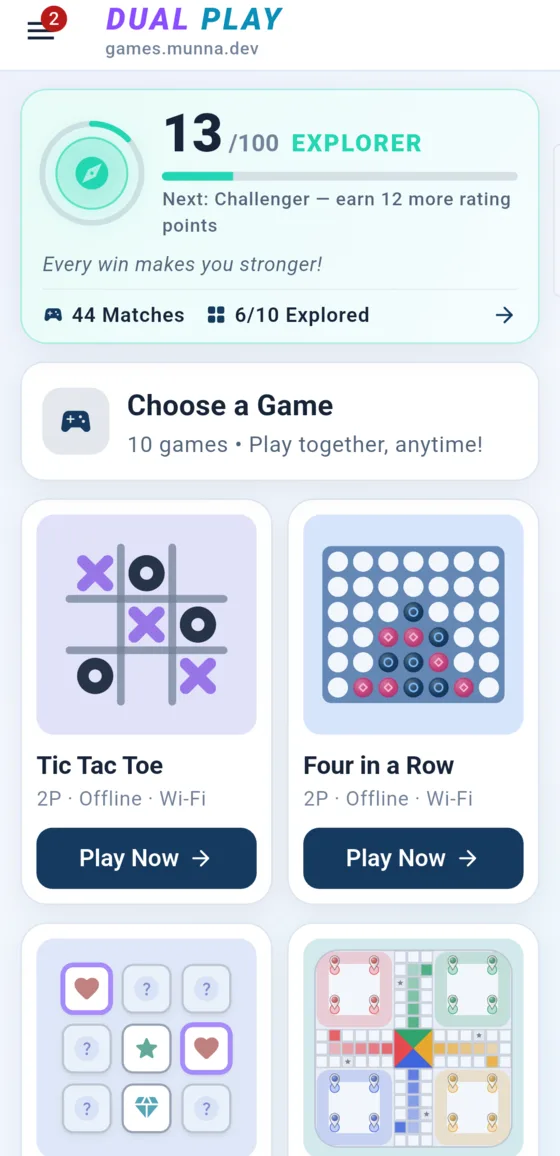
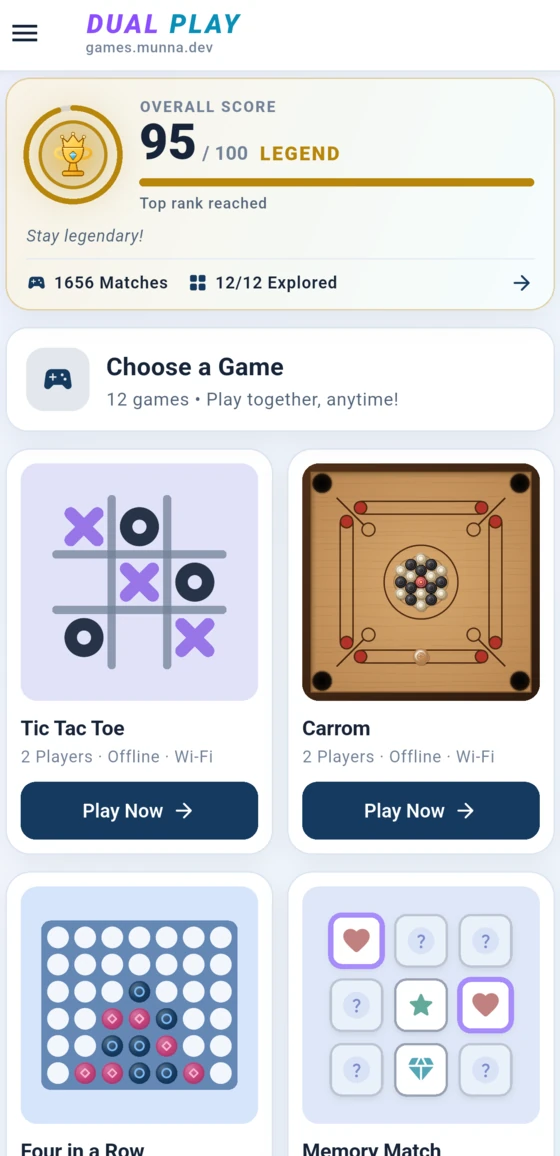
Update asset versioning and improve caching strategy
- Added versioning to favicon and apple-touch-icon links across multiple HTML files to ensure updated assets are fetched.
- Enhanced the asset stamping script to include images in addition to CSS and JS, ensuring all assets are versioned correctly.
- Updated various image references in the Dual Play app to include versioning for better cache management.
- Modified the service worker version in flutter_bootstrap.js to reflect the latest changes.

diff --git a/dual-play/index.html b/dual-play/index.html
@@ -26,15 +26,15 @@
 <meta name="twitter:description" content="Offline games with smart bots, same-device play, local Wi-Fi multiplayer and achievement leagues. No account.">
 <meta name="twitter:image" content="https://games.munna.dev/dual-play/assets/og-cover.png">
 
-<link rel="icon" href="/assets/favicon.svg" type="image/svg+xml">
-<link rel="apple-touch-icon" href="/assets/apple-touch-icon.png">
+<link rel="icon" href="/assets/favicon.svg?v=5d6193cf63" type="image/svg+xml">
+<link rel="apple-touch-icon" href="/assets/apple-touch-icon.png?v=ee16fc466b">
 <link rel="manifest" href="/dual-play/site.webmanifest">
 <link rel="preconnect" href="https://fonts.googleapis.com">
 <link rel="preconnect" href="https://fonts.gstatic.com" crossorigin>
 <link rel="stylesheet" href="https://fonts.googleapis.com/css2?family=Space+Grotesk:wght@500;600;700&display=swap">
 <link rel="stylesheet" href="/assets/site.css?v=4e4699472b">
-<link rel="stylesheet" href="/dual-play/assets/landing.css?v=2e84b9c476">
-<link rel="preload" as="image" href="/dual-play/assets/app/home.webp" type="image/webp">
+<link rel="stylesheet" href="/dual-play/assets/landing.css?v=ff501e1cfe">
+<link rel="preload" as="image" href="/dual-play/assets/app/home.webp?v=2f58cb6d5a" imagesrcset="/dual-play/assets/app/home.webp?v=2f58cb6d5a 560w, /dual-play/assets/app/home-840.webp?v=1012a0fd57 840w" imagesizes="(max-width: 940px) min(280px, 74vw), 270px" type="image/webp">
 <script>document.documentElement.classList.add('js')</script>
 <script defer src="/assets/site.js?v=92ef3d40b8"></script>
 <script defer src="/dual-play/assets/landing.js?v=4e567e4c0e"></script>
@@ -286,10 +286,10 @@
       <div class="dp-hero-visual">
         <div class="dp-phone-glow" aria-hidden="true"></div>
         <figure class="dp-phone">
-          <img src="/dual-play/assets/app/home.webp" width="560" height="1156" alt="The Dual Play home screen: a rating card showing the Explorer rank above a grid of game cards with artwork for Tic Tac Toe, Four in a Row, Memory Match and Ludo" fetchpriority="high" decoding="async">
+          <img src="/dual-play/assets/app/home.webp?v=2f58cb6d5a" srcset="/dual-play/assets/app/home.webp?v=2f58cb6d5a 560w, /dual-play/assets/app/home-840.webp?v=1012a0fd57 840w" sizes="(max-width: 940px) min(280px, 74vw), 270px" width="560" height="1156" alt="The Dual Play home screen: an Overall Score of 95 out of 100 in the Legend league, 1656 matches and 12 of 12 games explored, then Choose a Game with 12 games, starting with Tic Tac Toe and Carrom, followed by Four in a Row and Memory Match" fetchpriority="high" decoding="async">
         </figure>
-        <div class="dp-float dp-float-ttt" aria-hidden="true"><img class="" src="/dual-play/assets/games/tic-tac-toe.webp" width="96" height="96" alt="Tic Tac Toe artwork from the Dual Play app" decoding="async"><span>Tic Tac Toe</span></div>
-        <div class="dp-float dp-float-ludo" aria-hidden="true"><img class="" src="/dual-play/assets/games/ludo.webp" width="96" height="96" alt="Ludo artwork from the Dual Play app" decoding="async"><span>Ludo · 2–4</span></div>
+        <div class="dp-float dp-float-ttt" aria-hidden="true"><img class="" src="/dual-play/assets/games/tic-tac-toe.webp?v=90ac725b89" width="96" height="96" alt="Tic Tac Toe artwork from the Dual Play app" decoding="async"><span>Tic Tac Toe</span></div>
+        <div class="dp-float dp-float-ludo" aria-hidden="true"><img class="" src="/dual-play/assets/games/ludo.webp?v=7fbd83d5c0" width="96" height="96" alt="Ludo artwork from the Dual Play app" decoding="async"><span>Ludo · 2–4</span></div>
         <div class="dp-float dp-float-rank" aria-hidden="true">
           <svg viewBox="0 0 24 24" fill="none" stroke="currentColor" stroke-width="2" stroke-linecap="round" stroke-linejoin="round"><path d="M8 21h8M12 17v4M7 4h10v5a5 5 0 0 1-10 0z"/><path d="M17 5h3v2a3 3 0 0 1-3 3M7 5H4v2a3 3 0 0 0 3 3"/></svg>
           <span><b>Legend</b><small>League 8 of 8</small></span>
@@ -311,25 +311,26 @@
         <p class="lede">From quick-thinking puzzles to timeless board-game battles, Dual Play brings your favorite challenges together.</p>
       </div>
       <ul class="dp-featured-grid">
-        <li class="reveal"><a class="dp-feat-card" href="#game-tic-tac-toe" style="--ga:True">
-          <img class="dp-art" src="/dual-play/assets/games/tic-tac-toe.webp" width="420" height="420" alt="Tic Tac Toe artwork from the Dual Play app" loading="lazy" decoding="async">
+        <li class="reveal"><a class="dp-feat-card" href="#game-tic-tac-toe" style="--ga:#9875e8">
+          <img class="dp-art" src="/dual-play/assets/games/tic-tac-toe.webp?v=90ac725b89" width="420" height="420" alt="Tic Tac Toe artwork from the Dual Play app" loading="lazy" decoding="async">
           <span class="dp-feat-name">Tic Tac Toe</span>
           <span class="dp-feat-line">9 levels · Infinity mode</span>
         </a></li>
-        <li class="reveal"><a class="dp-feat-card" href="#game-ludo" style="--ga:True">
-          <img class="dp-art" src="/dual-play/assets/games/ludo.webp" width="420" height="420" alt="Ludo artwork from the Dual Play app" loading="lazy" decoding="async">
+        <li class="reveal"><a class="dp-feat-card" href="#game-carrom" style="--ga:#b9814f">
+          <span class="dp-feat-new">New</span>
+          <img class="dp-art" src="/dual-play/assets/games/carrom.webp?v=a556638d4e" width="420" height="420" alt="Carrom artwork from the Dual Play app: a wooden carrom board with corner pockets, the red Queen and black and white pieces" loading="lazy" decoding="async">
+          <span class="dp-feat-name">Carrom</span>
+          <span class="dp-feat-line">Classic &amp; Freestyle · real physics</span>
+        </a></li>
+        <li class="reveal"><a class="dp-feat-card" href="#game-ludo" style="--ga:#34b27a">
+          <img class="dp-art" src="/dual-play/assets/games/ludo.webp?v=7fbd83d5c0" width="420" height="420" alt="Ludo artwork from the Dual Play app" loading="lazy" decoding="async">
           <span class="dp-feat-name">Ludo</span>
           <span class="dp-feat-line">2–4 players · Team Match</span>
         </a></li>
-        <li class="reveal"><a class="dp-feat-card" href="#game-memory-match" style="--ga:True">
-          <img class="dp-art" src="/dual-play/assets/games/memory-match.webp" width="420" height="420" alt="Memory Match artwork from the Dual Play app" loading="lazy" decoding="async">
+        <li class="reveal"><a class="dp-feat-card" href="#game-memory-match" style="--ga:#e7b33e">
+          <img class="dp-art" src="/dual-play/assets/games/memory-match.webp?v=5bdb8fb2ab" width="420" height="420" alt="Memory Match artwork from the Dual Play app" loading="lazy" decoding="async">
           <span class="dp-feat-name">Memory Match</span>
           <span class="dp-feat-line">20 levels · memory duels</span>
-        </a></li>
-        <li class="reveal"><a class="dp-feat-card" href="#game-four-in-a-row" style="--ga:True">
-          <img class="dp-art" src="/dual-play/assets/games/four-in-a-row.webp" width="420" height="420" alt="Four in a Row artwork from the Dual Play app" loading="lazy" decoding="async">
-          <span class="dp-feat-name">Four in a Row</span>
-          <span class="dp-feat-line">5 board sizes · smart bots</span>
         </a></li>
       </ul>
     </div>
@@ -358,49 +359,49 @@
         <ol class="dp-track">
           <li class="dp-slide" data-index="0" data-key="rookie">
             <button type="button" class="dp-rank-card" data-open-rank="0" aria-label="Rookie, rank 1 of 8. Sample card, rating 0 out of 100. Open larger preview.">
-              <img src="/dual-play/assets/ranks/rookie-480.webp" width="480" height="727" alt="Sample Dual Play achievement card for the Rookie rank, showing a rating of 0 out of 100, 0 matches, 0 wins and 0 of 10 games explored" decoding="async">
+              <img src="/dual-play/assets/ranks/rookie-480.webp?v=f17c6acc0e" width="480" height="727" alt="Sample Dual Play achievement card for the Rookie rank, showing a rating of 0 out of 100, 0 matches, 0 wins and 0 of 10 games explored" decoding="async">
             </button>
             <p class="dp-rank-label"><span class="dp-rank-no">1</span> Rookie</p>
           </li>
           <li class="dp-slide" data-index="1" data-key="explorer">
             <button type="button" class="dp-rank-card" data-open-rank="1" aria-label="Explorer, rank 2 of 8. Sample card, rating 13 out of 100. Open larger preview.">
-              <img src="/dual-play/assets/ranks/explorer-480.webp" width="480" height="727" alt="Sample Dual Play achievement card for the Explorer rank, showing a rating of 13 out of 100, 12 matches, 5 wins and 6 of 10 games explored" decoding="async">
+              <img src="/dual-play/assets/ranks/explorer-480.webp?v=2889338e52" width="480" height="727" alt="Sample Dual Play achievement card for the Explorer rank, showing a rating of 13 out of 100, 12 matches, 5 wins and 6 of 10 games explored" decoding="async">
             </button>
             <p class="dp-rank-label"><span class="dp-rank-no">2</span> Explorer</p>
           </li>
           <li class="dp-slide" data-index="2" data-key="challenger">
             <button type="button" class="dp-rank-card" data-open-rank="2" aria-label="Challenger, rank 3 of 8. Sample card, rating 25 out of 100. Open larger preview.">
-              <img src="/dual-play/assets/ranks/challenger-480.webp" width="480" height="727" alt="Sample Dual Play achievement card for the Challenger rank, showing a rating of 25 out of 100, 30 matches, 14 wins and 7 of 10 games explored" decoding="async">
+              <img src="/dual-play/assets/ranks/challenger-480.webp?v=44112bbc44" width="480" height="727" alt="Sample Dual Play achievement card for the Challenger rank, showing a rating of 25 out of 100, 30 matches, 14 wins and 7 of 10 games explored" decoding="async">
             </button>
             <p class="dp-rank-label"><span class="dp-rank-no">3</span> Challenger</p>
           </li>
           <li class="dp-slide" data-index="3" data-key="skilled-player">
             <button type="button" class="dp-rank-card" data-open-rank="3" aria-label="Skilled Player, rank 4 of 8. Sample card, rating 40 out of 100. Open larger preview.">
-              <img src="/dual-play/assets/ranks/skilled-player-480.webp" width="480" height="727" alt="Sample Dual Play achievement card for the Skilled Player rank, showing a rating of 40 out of 100, 65 matches, 35 wins and 8 of 10 games explored" loading="lazy" decoding="async">
+              <img src="/dual-play/assets/ranks/skilled-player-480.webp?v=54155f06ac" width="480" height="727" alt="Sample Dual Play achievement card for the Skilled Player rank, showing a rating of 40 out of 100, 65 matches, 35 wins and 8 of 10 games explored" loading="lazy" decoding="async">
             </button>
             <p class="dp-rank-label"><span class="dp-rank-no">4</span> Skilled Player</p>
           </li>
           <li class="dp-slide" data-index="4" data-key="expert">
             <button type="button" class="dp-rank-card" data-open-rank="4" aria-label="Expert, rank 5 of 8. Sample card, rating 55 out of 100. Open larger preview.">
-              <img src="/dual-play/assets/ranks/expert-480.webp" width="480" height="727" alt="Sample Dual Play achievement card for the Expert rank, showing a rating of 55 out of 100, 110 matches, 68 wins and 10 of 10 games explored" loading="lazy" decoding="async">
+              <img src="/dual-play/assets/ranks/expert-480.webp?v=bd09b292c2" width="480" height="727" alt="Sample Dual Play achievement card for the Expert rank, showing a rating of 55 out of 100, 110 matches, 68 wins and 10 of 10 games explored" loading="lazy" decoding="async">
             </button>
             <p class="dp-rank-label"><span class="dp-rank-no">5</span> Expert</p>
           </li>
           <li class="dp-slide" data-index="5" data-key="master">
             <button type="button" class="dp-rank-card" data-open-rank="5" aria-label="Master, rank 6 of 8. Sample card, rating 70 out of 100. Open larger preview.">
-              <img src="/dual-play/assets/ranks/master-480.webp" width="480" height="727" alt="Sample Dual Play achievement card for the Master rank, showing a rating of 70 out of 100, 180 matches, 125 wins and 10 of 10 games explored" loading="lazy" decoding="async">
+              <img src="/dual-play/assets/ranks/master-480.webp?v=597a07226b" width="480" height="727" alt="Sample Dual Play achievement card for the Master rank, showing a rating of 70 out of 100, 180 matches, 125 wins and 10 of 10 games explored" loading="lazy" decoding="async">
             </button>
             <p class="dp-rank-label"><span class="dp-rank-no">6</span> Master</p>
           </li>
           <li class="dp-slide" data-index="6" data-key="champion">
             <button type="button" class="dp-rank-card" data-open-rank="6" aria-label="Champion, rank 7 of 8. Sample card, rating 85 out of 100. Open larger preview.">
-              <img src="/dual-play/assets/ranks/champion-480.webp" width="480" height="727" alt="Sample Dual Play achievement card for the Champion rank, showing a rating of 85 out of 100, 300 matches, 225 wins and 10 of 10 games explored" loading="lazy" decoding="async">
+              <img src="/dual-play/assets/ranks/champion-480.webp?v=95653f3b66" width="480" height="727" alt="Sample Dual Play achievement card for the Champion rank, showing a rating of 85 out of 100, 300 matches, 225 wins and 10 of 10 games explored" loading="lazy" decoding="async">
             </button>
             <p class="dp-rank-label"><span class="dp-rank-no">7</span> Champion</p>
           </li>
           <li class="dp-slide" data-index="7" data-key="legend">
             <button type="button" class="dp-rank-card" data-open-rank="7" aria-label="Legend, rank 8 of 8. Sample card, rating 95 out of 100. Open larger preview.">
-              <img src="/dual-play/assets/ranks/legend-480.webp" width="480" height="727" alt="Sample Dual Play achievement card for the Legend rank, showing a rating of 95 out of 100, 500 matches, 400 wins and 10 of 10 games explored" loading="lazy" decoding="async">
+              <img src="/dual-play/assets/ranks/legend-480.webp?v=5f400380b3" width="480" height="727" alt="Sample Dual Play achievement card for the Legend rank, showing a rating of 95 out of 100, 500 matches, 400 wins and 10 of 10 games explored" loading="lazy" decoding="async">
             </button>
             <p class="dp-rank-label"><span class="dp-rank-no">8</span> Legend</p>
           </li>
@@ -445,7 +446,7 @@
       </div>
       <div class="dp-games-grid">
         <article class="dp-game reveal" id="game-tic-tac-toe" style="--ga:#9875e8">
-          <img class="dp-game-art" src="/dual-play/assets/games/tic-tac-toe.webp" width="420" height="420" alt="Tic Tac Toe artwork from the Dual Play app" loading="lazy" decoding="async">
+          <img class="dp-game-art" src="/dual-play/assets/games/tic-tac-toe.webp?v=90ac725b89" width="420" height="420" alt="Tic Tac Toe artwork from the Dual Play app" loading="lazy" decoding="async">
           <div class="dp-game-body">
             <h3>Tic Tac Toe</h3>
             <p class="dp-game-line">Beyond the classic 3×3: nine levels climb to an 11×11 board, each with its own named challenger.</p>
@@ -458,7 +459,7 @@
           </div>
         </article>
         <article class="dp-game reveal" id="game-carrom" style="--ga:#b9814f">
-          <img class="dp-game-art" src="/dual-play/assets/games/carrom.webp" width="420" height="420" alt="Carrom artwork from the Dual Play app: a wooden carrom board with corner pockets, the red Queen and black and white pieces" loading="lazy" decoding="async">
+          <img class="dp-game-art" src="/dual-play/assets/games/carrom.webp?v=a556638d4e" width="420" height="420" alt="Carrom artwork from the Dual Play app: a wooden carrom board with corner pockets, the red Queen and black and white pieces" loading="lazy" decoding="async">
           <div class="dp-game-body">
             <h3>Carrom</h3>
             <p class="dp-game-line">Flick the striker across a wooden board and sink your pieces — two ways to play in one game.</p>
@@ -471,7 +472,7 @@
           </div>
         </article>
         <article class="dp-game reveal" id="game-four-in-a-row" style="--ga:#438cff">
-          <img class="dp-game-art" src="/dual-play/assets/games/four-in-a-row.webp" width="420" height="420" alt="Four in a Row artwork from the Dual Play app" loading="lazy" decoding="async">
+          <img class="dp-game-art" src="/dual-play/assets/games/four-in-a-row.webp?v=cae88f99d2" width="420" height="420" alt="Four in a Row artwork from the Dual Play app" loading="lazy" decoding="async">
           <div class="dp-game-body">
             <h3>Four in a Row</h3>
             <p class="dp-game-line">Drop your discs, plan ahead and connect four before your opponent does.</p>
@@ -484,7 +485,7 @@
           </div>
         </article>
         <article class="dp-game reveal" id="game-memory-match" style="--ga:#e7b33e">
-          <img class="dp-game-art" src="/dual-play/assets/games/memory-match.webp" width="420" height="420" alt="Memory Match artwork from the Dual Play app" loading="lazy" decoding="async">
+          <img class="dp-game-art" src="/dual-play/assets/games/memory-match.webp?v=5bdb8fb2ab" width="420" height="420" alt="Memory Match artwork from the Dual Play app" loading="lazy" decoding="async">
           <div class="dp-game-body">
             <h3>Memory Match</h3>
             <p class="dp-game-line">Flip cards, remember what was revealed and collect matching pairs before your rival.</p>
@@ -497,7 +498,7 @@
           </div>
         </article>
         <article class="dp-game reveal" id="game-ludo" style="--ga:#34b27a">
-          <img class="dp-game-art" src="/dual-play/assets/games/ludo.webp" width="420" height="420" alt="Ludo artwork from the Dual Play app" loading="lazy" decoding="async">
+          <img class="dp-game-art" src="/dual-play/assets/games/ludo.webp?v=7fbd83d5c0" width="420" height="420" alt="Ludo artwork from the Dual Play app" loading="lazy" decoding="async">
           <div class="dp-game-body">
             <h3>Ludo</h3>
             <p class="dp-game-line">Roll the dice and race your tokens home — alone, with friends or in a 2v2 Team Match.</p>
@@ -510,7 +511,7 @@
           </div>
         </article>
         <article class="dp-game reveal" id="game-dots-and-boxes" style="--ga:#21b5a5">
-          <img class="dp-game-art" src="/dual-play/assets/games/dots-and-boxes.webp" width="420" height="420" alt="Dots and Boxes artwork from the Dual Play app" loading="lazy" decoding="async">
+          <img class="dp-game-art" src="/dual-play/assets/games/dots-and-boxes.webp?v=4fe0100b12" width="420" height="420" alt="Dots and Boxes artwork from the Dual Play app" loading="lazy" decoding="async">
           <div class="dp-game-body">
             <h3>Dots and Boxes</h3>
             <p class="dp-game-line">Connect the dots, claim boxes and outsmart your opponent one clever line at a time.</p>
@@ -523,7 +524,7 @@
           </div>
         </article>
         <article class="dp-game reveal" id="game-color-connect" style="--ga:#e5604f">
-          <img class="dp-game-art" src="/dual-play/assets/games/color-connect.webp" width="420" height="420" alt="Color Connect artwork from the Dual Play app" loading="lazy" decoding="async">
+          <img class="dp-game-art" src="/dual-play/assets/games/color-connect.webp?v=bf2de59a1c" width="420" height="420" alt="Color Connect artwork from the Dual Play app" loading="lazy" decoding="async">
           <div class="dp-game-body">
             <h3>Color Connect</h3>
             <p class="dp-game-line">Join matching colours with clever paths — solve a 50-level campaign or set a puzzle for a friend.</p>
@@ -536,7 +537,7 @@
           </div>
         </article>
         <article class="dp-game reveal" id="game-sliding-puzzle" style="--ga:#8db33a">
-          <img class="dp-game-art" src="/dual-play/assets/games/sliding-puzzle.webp" width="420" height="420" alt="Sliding Puzzle artwork from the Dual Play app" loading="lazy" decoding="async">
+          <img class="dp-game-art" src="/dual-play/assets/games/sliding-puzzle.webp?v=31146f37fa" width="420" height="420" alt="Sliding Puzzle artwork from the Dual Play app" loading="lazy" decoding="async">
           <div class="dp-game-body">
             <h3>Sliding Puzzle</h3>
             <p class="dp-game-line">The classic 15 puzzle with picture tiles — slide every piece home, alone or against a friend.</p>
@@ -549,7 +550,7 @@
           </div>
         </article>
         <article class="dp-game reveal" id="game-wall-block" style="--ga:#df5a9b">
-          <img class="dp-game-art" src="/dual-play/assets/games/wall-block.webp" width="420" height="420" alt="Wall Block artwork from the Dual Play app" loading="lazy" decoding="async">
+          <img class="dp-game-art" src="/dual-play/assets/games/wall-block.webp?v=6af65a0806" width="420" height="420" alt="Wall Block artwork from the Dual Play app" loading="lazy" decoding="async">
           <div class="dp-game-body">
             <h3>Wall Block</h3>
             <p class="dp-game-line">Race to the far edge while placing walls to slow your rival down.</p>
@@ -562,7 +563,7 @@
           </div>
         </article>
         <article class="dp-game reveal" id="game-shape-crack" style="--ga:#7d8dff">
-          <img class="dp-game-art" src="/dual-play/assets/games/shape-crack.webp" width="420" height="420" alt="Shape Crack artwork from the Dual Play app" loading="lazy" decoding="async">
+          <img class="dp-game-art" src="/dual-play/assets/games/shape-crack.webp?v=4b46cc1000" width="420" height="420" alt="Shape Crack artwork from the Dual Play app" loading="lazy" decoding="async">
           <div class="dp-game-body">
             <h3>Shape Crack</h3>
             <p class="dp-game-line">Break the hidden shape code using logic, clues and deduction.</p>
@@ -575,7 +576,7 @@
           </div>
         </article>
         <article class="dp-game reveal" id="game-sholo-guti" style="--ga:#e9a15b">
-          <img class="dp-game-art" src="/dual-play/assets/games/sholo-guti.webp" width="420" height="420" alt="Sholo Guti artwork from the Dual Play app" loading="lazy" decoding="async">
+          <img class="dp-game-art" src="/dual-play/assets/games/sholo-guti.webp?v=dd122682a6" width="420" height="420" alt="Sholo Guti artwork from the Dual Play app" loading="lazy" decoding="async">
           <div class="dp-game-body">
             <h3>Sholo Guti</h3>
             <p class="dp-game-line">A traditional strategy game: two armies of 16 on a 42-point board where every jump can turn the game.</p>
@@ -588,7 +589,7 @@
           </div>
         </article>
         <article class="dp-game reveal" id="game-bagh-bandi" style="--ga:#e8794f">
-          <img class="dp-game-art" src="/dual-play/assets/games/bagh-bandi.webp" width="420" height="420" alt="Bagh-Bandi artwork from the Dual Play app" loading="lazy" decoding="async">
+          <img class="dp-game-art" src="/dual-play/assets/games/bagh-bandi.webp?v=bd63d665f7" width="420" height="420" alt="Bagh-Bandi artwork from the Dual Play app" loading="lazy" decoding="async">
           <div class="dp-game-body">
             <h3>Bagh-Bandi</h3>
             <p class="dp-game-line">Take the Tiger or the Soldiers in a traditional hunt on a 13-point hourglass board.</p>

diff --git a/dual-play/assets/landing.css b/dual-play/assets/landing.css
@@ -133,11 +133,17 @@ body.dp .wordmark span { background-image: linear-gradient(90deg, #7fd6ee, #9564
 }
 .dp-featured-grid > li { min-width: 0; }
 .dp-feat-card {
-  display: block; height: 100%; padding: .7rem .7rem 1rem; text-decoration: none; color: var(--text);
+  position: relative; display: block; height: 100%; padding: .7rem .7rem 1rem; text-decoration: none; color: var(--text);
   border-radius: var(--r-lg); background: var(--surface); border: 1px solid var(--border);
   transition: transform .2s ease, border-color .2s ease, box-shadow .2s ease;
 }
 .dp-feat-card:hover { transform: translateY(-4px); border-color: color-mix(in srgb, var(--ga) 60%, var(--border)); box-shadow: 0 22px 44px -26px var(--ga); color: var(--text); }
+.dp-feat-new {
+  position: absolute; top: 1.15rem; right: 1.15rem; z-index: 1;
+  padding: .22rem .6rem; border-radius: 999px;
+  font-family: var(--font-display); font-weight: 700; font-size: .7rem; letter-spacing: .08em; text-transform: uppercase;
+  color: #fff; background: color-mix(in srgb, var(--ga) 82%, #000); box-shadow: 0 6px 16px -8px var(--ga);
+}
 .dp-art { width: 100%; height: auto; aspect-ratio: 1; border-radius: 18px; margin-bottom: .8rem; }
 .dp-feat-name { display: block; font-family: var(--font-display); font-weight: 700; font-size: 1.08rem; padding-inline: .3rem; }
 .dp-feat-line { display: block; font-size: .88rem; color: var(--text-muted); padding-inline: .3rem; margin-top: .15rem; }

diff --git a/bricks-crusher/index.html b/bricks-crusher/index.html
@@ -26,8 +26,8 @@
 <meta name="twitter:description" content="Paddle, ball, a wall of bricks. Split &amp; Burst power-ups, Diamonds, a 100-level campaign, a skins store, Daily Rewards and a Lucky Wheel. Free to play, out now on Google Play.">
 <meta name="twitter:image" content="https://games.munna.dev/bricks-crusher/assets/og-cover.png">
 
-<link rel="icon" href="/assets/favicon.svg" type="image/svg+xml">
-<link rel="apple-touch-icon" href="/assets/apple-touch-icon.png">
+<link rel="icon" href="/assets/favicon.svg?v=5d6193cf63" type="image/svg+xml">
+<link rel="apple-touch-icon" href="/assets/apple-touch-icon.png?v=ee16fc466b">
 <link rel="manifest" href="/bricks-crusher/site.webmanifest">
 <link rel="preconnect" href="https://fonts.googleapis.com">
 <link rel="preconnect" href="https://fonts.gstatic.com" crossorigin>

diff --git a/bricks-crusher/privacy/index.html b/bricks-crusher/privacy/index.html
@@ -26,8 +26,8 @@
 <meta name="twitter:description" content="No account required. Your progress stays on your device. Plain-language details on rewarded ads, optional push notifications and the configuration the app uses.">
 <meta name="twitter:image" content="https://games.munna.dev/bricks-crusher/assets/og-cover.png">
 
-<link rel="icon" href="/assets/favicon.svg" type="image/svg+xml">
-<link rel="apple-touch-icon" href="/assets/apple-touch-icon.png">
+<link rel="icon" href="/assets/favicon.svg?v=5d6193cf63" type="image/svg+xml">
+<link rel="apple-touch-icon" href="/assets/apple-touch-icon.png?v=ee16fc466b">
 <link rel="manifest" href="/bricks-crusher/site.webmanifest">
 <link rel="preconnect" href="https://fonts.googleapis.com">
 <link rel="preconnect" href="https://fonts.gstatic.com" crossorigin>

diff --git a/bricks-crusher/terms/index.html b/bricks-crusher/terms/index.html
@@ -26,8 +26,8 @@
 <meta name="twitter:description" content="The terms for using Bricks Crusher: licence, virtual items and rewards, optional rewarded ads.">
 <meta name="twitter:image" content="https://games.munna.dev/bricks-crusher/assets/og-cover.png">
 
-<link rel="icon" href="/assets/favicon.svg" type="image/svg+xml">
-<link rel="apple-touch-icon" href="/assets/apple-touch-icon.png">
+<link rel="icon" href="/assets/favicon.svg?v=5d6193cf63" type="image/svg+xml">
+<link rel="apple-touch-icon" href="/assets/apple-touch-icon.png?v=ee16fc466b">
 <link rel="manifest" href="/bricks-crusher/site.webmanifest">
 <link rel="preconnect" href="https://fonts.googleapis.com">
 <link rel="preconnect" href="https://fonts.gstatic.com" crossorigin>

diff --git a/dual-play/about/index.html b/dual-play/about/index.html
@@ -26,8 +26,8 @@
 <meta name="twitter:description" content="Twelve classic and strategy games in one offline-first Android app, built by Md. Risul Islam Munna.">
 <meta name="twitter:image" content="https://games.munna.dev/dual-play/assets/og-cover.png">
 
-<link rel="icon" href="/assets/favicon.svg" type="image/svg+xml">
-<link rel="apple-touch-icon" href="/assets/apple-touch-icon.png">
+<link rel="icon" href="/assets/favicon.svg?v=5d6193cf63" type="image/svg+xml">
+<link rel="apple-touch-icon" href="/assets/apple-touch-icon.png?v=ee16fc466b">
 <link rel="manifest" href="/dual-play/site.webmanifest">
 <link rel="preconnect" href="https://fonts.googleapis.com">
 <link rel="preconnect" href="https://fonts.gstatic.com" crossorigin>

diff --git a/bricks-crusher/contact/index.html b/bricks-crusher/contact/index.html
@@ -26,8 +26,8 @@
 <meta name="twitter:description" content="Report a bug, request a feature, or ask a question about Bricks Crusher.">
 <meta name="twitter:image" content="https://games.munna.dev/bricks-crusher/assets/og-cover.png">
 
-<link rel="icon" href="/assets/favicon.svg" type="image/svg+xml">
-<link rel="apple-touch-icon" href="/assets/apple-touch-icon.png">
+<link rel="icon" href="/assets/favicon.svg?v=5d6193cf63" type="image/svg+xml">
+<link rel="apple-touch-icon" href="/assets/apple-touch-icon.png?v=ee16fc466b">
 <link rel="manifest" href="/bricks-crusher/site.webmanifest">
 <link rel="preconnect" href="https://fonts.googleapis.com">
 <link rel="preconnect" href="https://fonts.gstatic.com" crossorigin>

diff --git a/index.html b/index.html
@@ -26,8 +26,8 @@
 <meta name="twitter:description" content="A small, growing collection of classic-feeling Android games — built solo in Dhaka.">
 <meta name="twitter:image" content="https://games.munna.dev/assets/og-cover.png">
 
-<link rel="icon" href="/assets/favicon.svg" type="image/svg+xml">
-<link rel="apple-touch-icon" href="/assets/apple-touch-icon.png">
+<link rel="icon" href="/assets/favicon.svg?v=5d6193cf63" type="image/svg+xml">
+<link rel="apple-touch-icon" href="/assets/apple-touch-icon.png?v=ee16fc466b">
 <link rel="manifest" href="/site.webmanifest">
 <link rel="preconnect" href="https://fonts.googleapis.com">
 <link rel="preconnect" href="https://fonts.gstatic.com" crossorigin>

diff --git a/dual-play/terms/index.html b/dual-play/terms/index.html
@@ -26,8 +26,8 @@
 <meta name="twitter:description" content="The terms that govern your use of the Dual Play mobile game app.">
 <meta name="twitter:image" content="https://games.munna.dev/dual-play/assets/og-cover.png">
 
-<link rel="icon" href="/assets/favicon.svg" type="image/svg+xml">
-<link rel="apple-touch-icon" href="/assets/apple-touch-icon.png">
+<link rel="icon" href="/assets/favicon.svg?v=5d6193cf63" type="image/svg+xml">
+<link rel="apple-touch-icon" href="/assets/apple-touch-icon.png?v=ee16fc466b">
 <link rel="manifest" href="/dual-play/site.webmanifest">
 <link rel="preconnect" href="https://fonts.googleapis.com">
 <link rel="preconnect" href="https://fonts.gstatic.com" crossorigin>

diff --git a/404.html b/404.html
@@ -6,8 +6,8 @@
 <title>Page not found — games.munna.dev</title>
 <meta name="robots" content="noindex,follow">
 <meta name="theme-color" content="#0e0f13">
-<link rel="icon" href="/assets/favicon.svg" type="image/svg+xml">
-<link rel="apple-touch-icon" href="/assets/apple-touch-icon.png">
+<link rel="icon" href="/assets/favicon.svg?v=5d6193cf63" type="image/svg+xml">
+<link rel="apple-touch-icon" href="/assets/apple-touch-icon.png?v=ee16fc466b">
 <link rel="preconnect" href="https://fonts.googleapis.com">
 <link rel="preconnect" href="https://fonts.gstatic.com" crossorigin>
 <link rel="stylesheet" href="https://fonts.googleapis.com/css2?family=Space+Grotesk:wght@500;600;700&display=swap">

diff --git a/dual-play/privacy/index.html b/dual-play/privacy/index.html
@@ -26,8 +26,8 @@
 <meta name="twitter:description" content="No account required. Your game data stays on your device.">
 <meta name="twitter:image" content="https://games.munna.dev/dual-play/assets/og-cover.png">
 
-<link rel="icon" href="/assets/favicon.svg" type="image/svg+xml">
-<link rel="apple-touch-icon" href="/assets/apple-touch-icon.png">
+<link rel="icon" href="/assets/favicon.svg?v=5d6193cf63" type="image/svg+xml">
+<link rel="apple-touch-icon" href="/assets/apple-touch-icon.png?v=ee16fc466b">
 <link rel="manifest" href="/dual-play/site.webmanifest">
 <link rel="preconnect" href="https://fonts.googleapis.com">
 <link rel="preconnect" href="https://fonts.gstatic.com" crossorigin>

diff --git a/dual-play/contact/index.html b/dual-play/contact/index.html
@@ -26,8 +26,8 @@
 <meta name="twitter:description" content="Support, bug reports and feedback for Dual Play.">
 <meta name="twitter:image" content="https://games.munna.dev/dual-play/assets/og-cover.png">
 
-<link rel="icon" href="/assets/favicon.svg" type="image/svg+xml">
-<link rel="apple-touch-icon" href="/assets/apple-touch-icon.png">
+<link rel="icon" href="/assets/favicon.svg?v=5d6193cf63" type="image/svg+xml">
+<link rel="apple-touch-icon" href="/assets/apple-touch-icon.png?v=ee16fc466b">
 <link rel="manifest" href="/dual-play/site.webmanifest">
 <link rel="preconnect" href="https://fonts.googleapis.com">
 <link rel="preconnect" href="https://fonts.gstatic.com" crossorigin>
